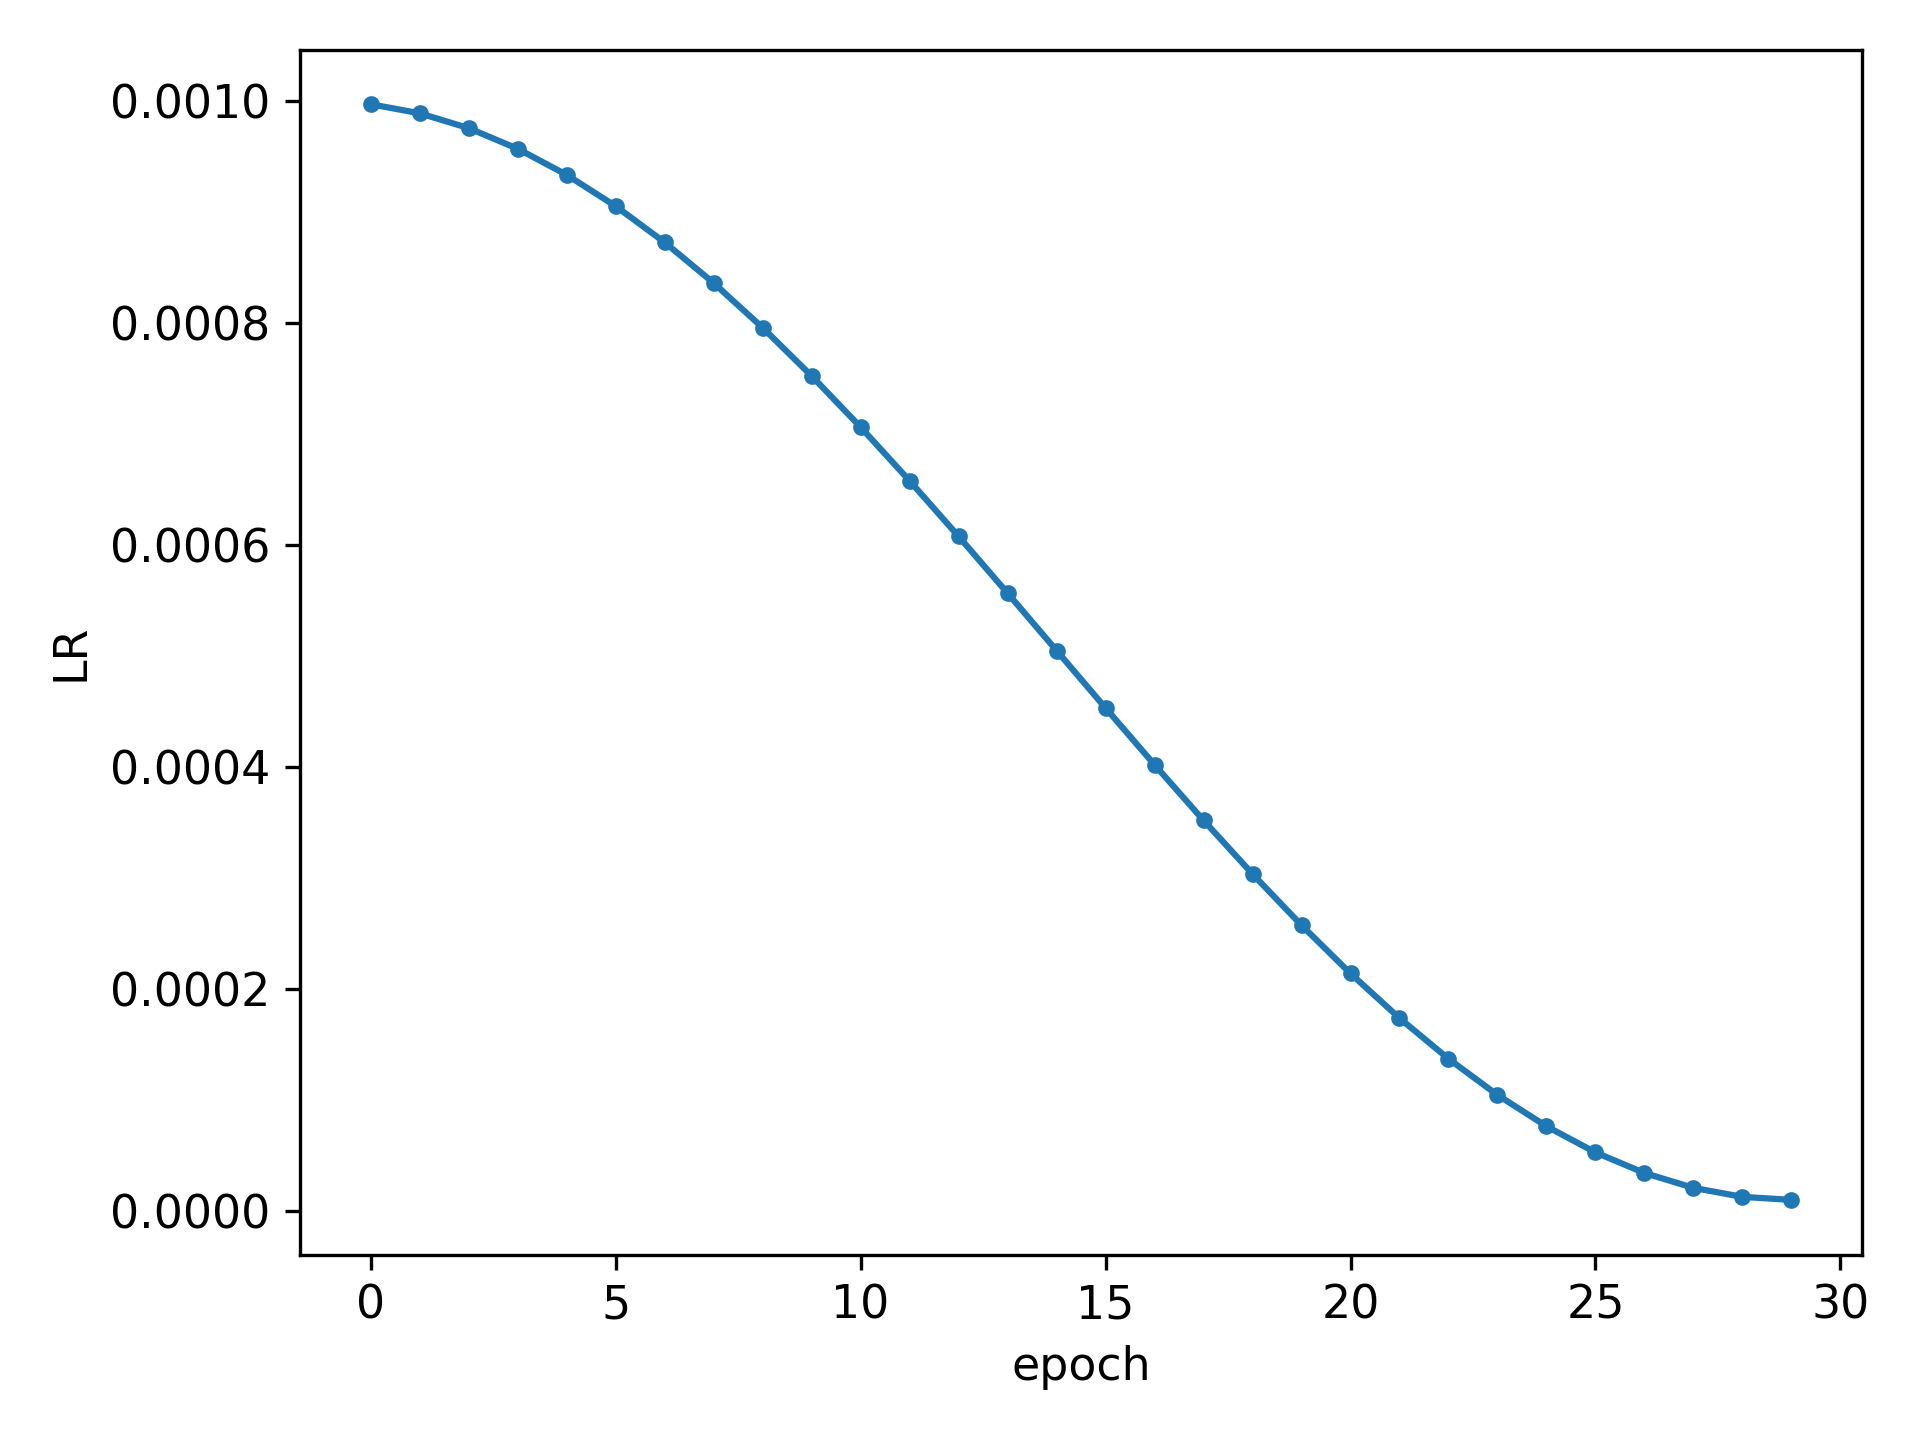
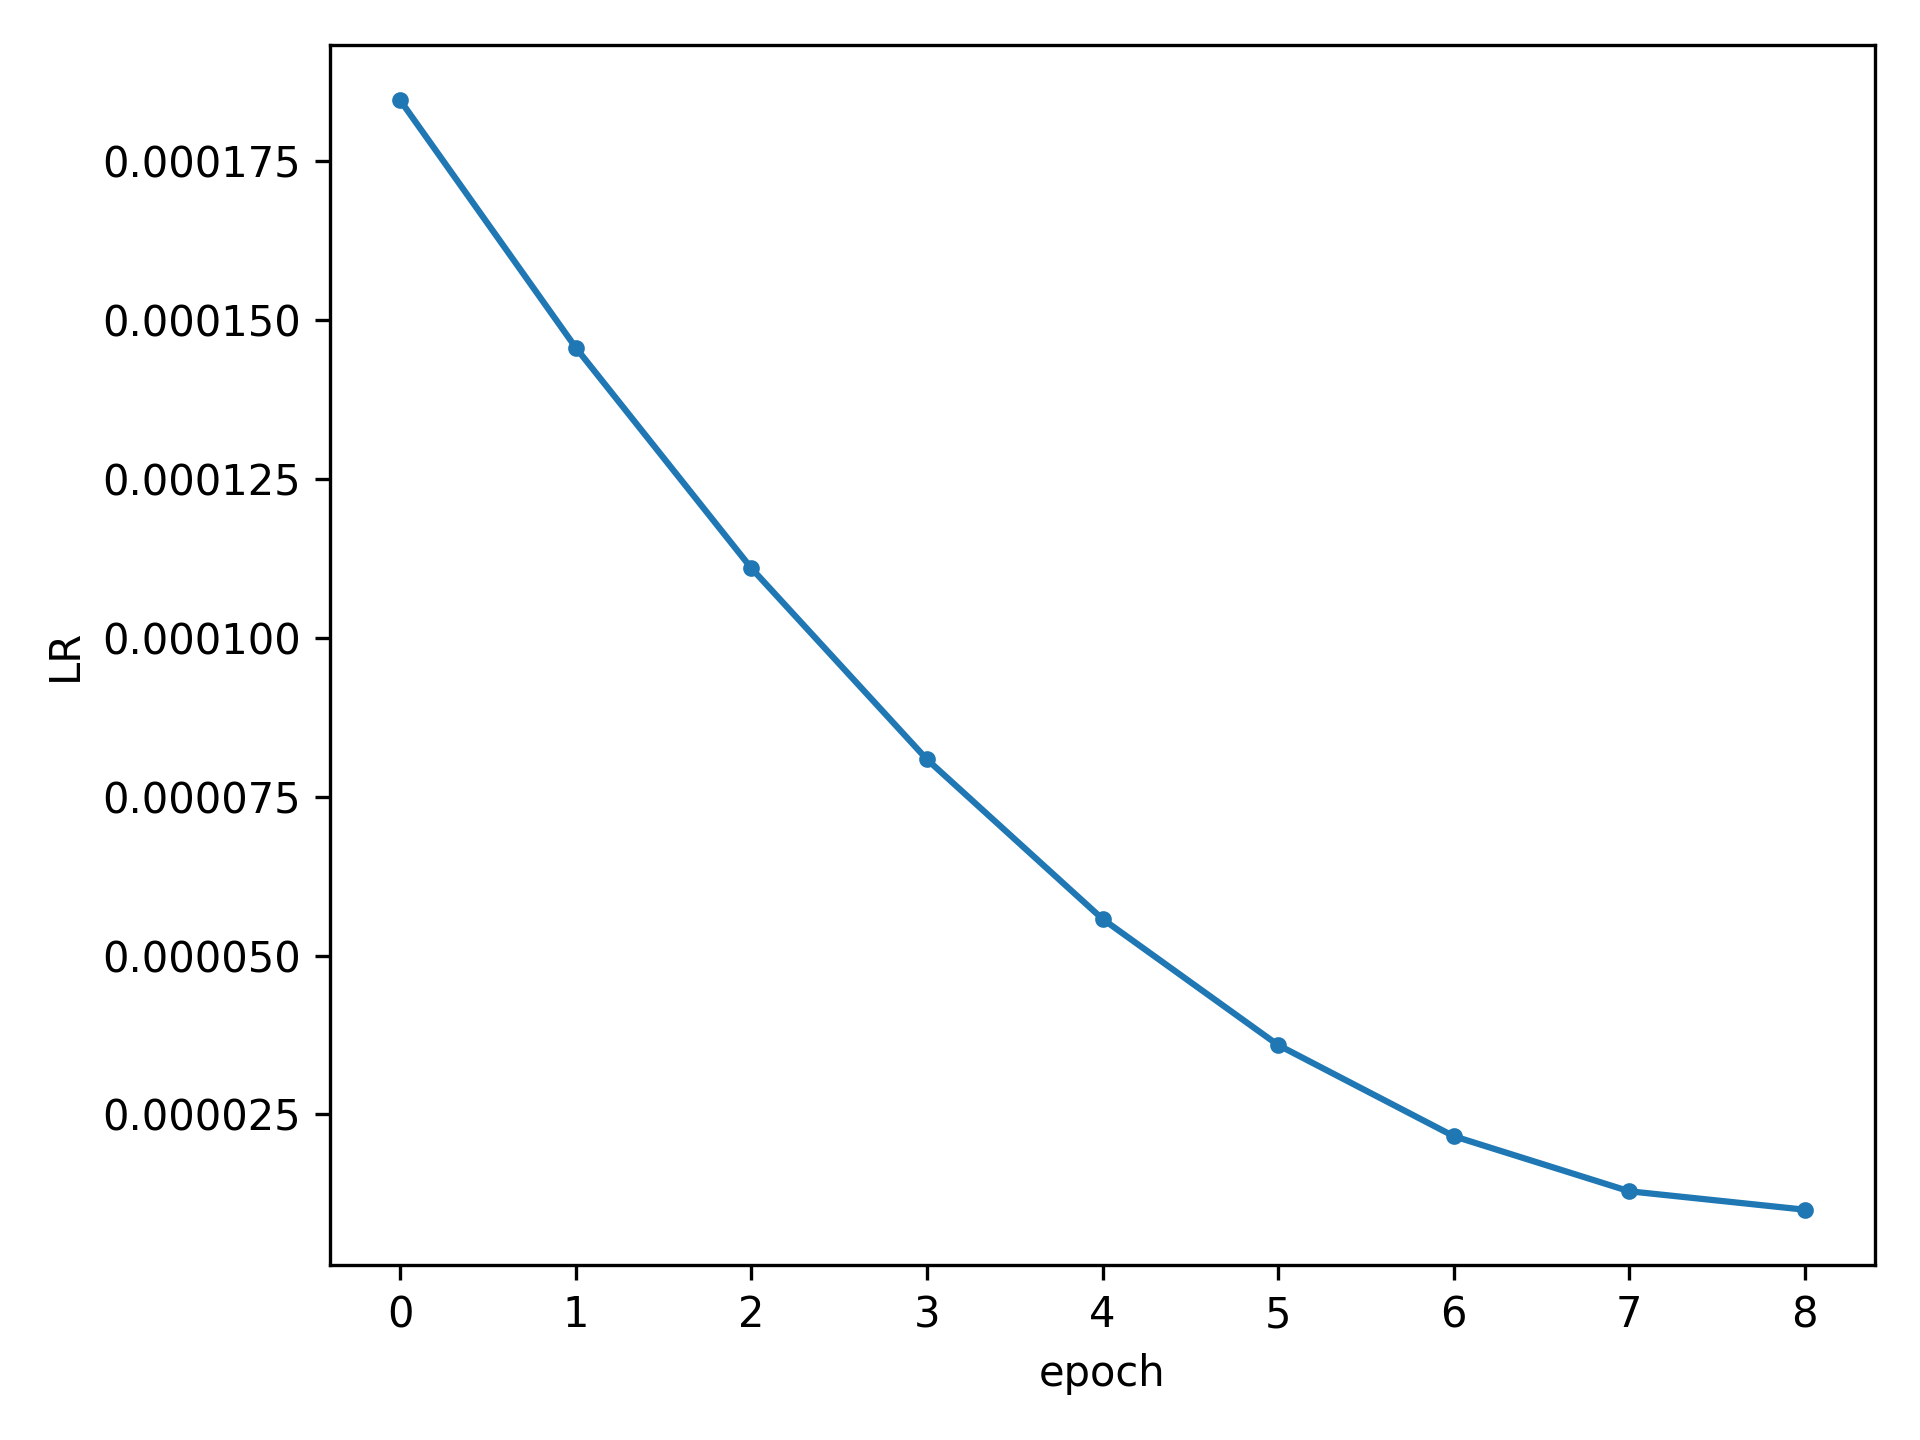
rect train

diff --git a/my_train.py b/my_train.py
@@ -6,6 +6,7 @@ import yaml
 import torch
 import torch.optim as optim
 import torch.optim.lr_scheduler as lr_scheduler
+import matplotlib.pyplot as plt
 from torch.utils.tensorboard import SummaryWriter
 from pathlib import Path
 from reimplement import YoloV3SPP, YoloDataset
@@ -117,10 +118,11 @@ def train(hyp):
                 "See https://github.com/ultralytics/yolov3/issues/657" % (opt.weights, opt.cfg, opt.weights)
             raise KeyError(s) from e
 
-        # reinitialize weight of model
-        for p in model.parameters():
-            if p.requires_grad and p.data.dim() >= 2:  # use loaded weight if not requires_grad
-                torch.nn.init.kaiming_uniform_(p.data, a=0.1)
+        if opt.reinit:
+            # reinitialize weight of model
+            for p in model.parameters():
+                if p.requires_grad and p.data.dim() >= 2:  # use loaded weight if not requires_grad
+                    torch.nn.init.kaiming_uniform_(p.data, a=0.1)
 
         # load optimizer
         if ckpt["optimizer"] is not None:
@@ -149,17 +151,22 @@ def train(hyp):
     lf = lambda x: ((1 + math.cos(x * math.pi / epochs)) / 2) * (1 - hyp["lrf"]) + hyp["lrf"]  # cosine
     scheduler = lr_scheduler.LambdaLR(optimizer, lr_lambda=lf)
     scheduler.last_epoch = start_epoch  # 指定从哪个epoch开始
+    if not opt.reinit:
+        scheduler.step()
 
     # Plot lr schedule
-    # y = []
-    # for _ in range(epochs):
-    #     scheduler.step()
-    #     y.append(optimizer.param_groups[0]['lr'])
-    # plt.plot(y, '.-', label='LambdaLR')
-    # plt.xlabel('epoch')
-    # plt.ylabel('LR')
-    # plt.tight_layout()
-    # plt.savefig('LR.png', dpi=300)
+    '''
+    y = []
+    for _ in range(start_epoch, epochs):
+        scheduler.step()
+        y.append(optimizer.param_groups[0]['lr'])
+    plt.plot(y, '.-', label='LambdaLR')
+    plt.xlabel('epoch')
+    plt.ylabel('LR')
+    plt.tight_layout()
+    plt.savefig('LR.png', dpi=300)
+    breakpoint()
+    '''
 
     # model.yolo_layers = model.module.yolo_layers
 
@@ -207,7 +214,7 @@ def train(hyp):
                                                grid_max=grid_max,  # grid的最大尺寸
                                                gs=gs,  # grid step: 32
                                                print_freq=100,  # 每训练多少个step打印一次信息
-                                               warmup=False, # just finetune 
+                                               warmup=opt.reinit, 
                                                scaler=scaler)
     
         # update scheduler
@@ -253,7 +260,8 @@ def train(hyp):
                         'best_map': best_map}
                     if opt.amp:
                         save_files["scaler"] = scaler.state_dict()
-                    torch.save(save_files, "./weights/yolov3spp-{}.pt".format(epoch))
+                    weight_file = wdir + 'yolov3spp-{}.pt'.format(epoch)
+                    torch.save(save_files, weight_file)
             else:
                 # only save best weights
                 if best_map == coco_mAP:
@@ -280,13 +288,14 @@ if __name__ == '__main__':
                         help='adjust (67%% - 150%%) img_size every 10 batches')
     parser.add_argument('--img-size', type=int, default=512, help='test size')
     parser.add_argument('--rect', action='store_true', help='rectangular training')
-    parser.add_argument('--savebest', type=bool, default=True, help='only save best checkpoint')
+    parser.add_argument('--savebest', type=bool, default=False, help='only save best checkpoint')
     parser.add_argument('--notest', action='store_true', help='only test final epoch')
     parser.add_argument('--weights', type=str, default='../weights/yolov3spp-voc-512.pt',
                         help='initial weights path')
     parser.add_argument('--name', default='', help='renames results.txt to results_name.txt if supplied')
     parser.add_argument('--device', default='cuda:0', help='device id (i.e. 0 or 0,1 or cpu)')
-    parser.add_argument('--freeze-layers', type=bool, default=False, help='Freeze non-output layers')
+    parser.add_argument('--freeze-layers', type=bool, default=True, help='Freeze non-output layers')
+    parser.add_argument('--reinit', action='store_true', help='')
     # 是否使用混合精度训练(需要GPU支持混合精度)
     parser.add_argument("--amp", default=False, help="Use torch.cuda.amp for mixed precision training")
     opt = parser.parse_args()
@@ -297,5 +306,5 @@ if __name__ == '__main__':
         hyp = yaml.load(f, Loader=yaml.FullLoader)
 
     print('Start Tensorboard with "tensorboard --logdir=runs", view at http://localhost:6006/')
-    tb_writer = SummaryWriter(comment=opt.name)
+    tb_writer = SummaryWriter(log_dir='/root/tf-logs', comment=opt.name)
     train(hyp)
